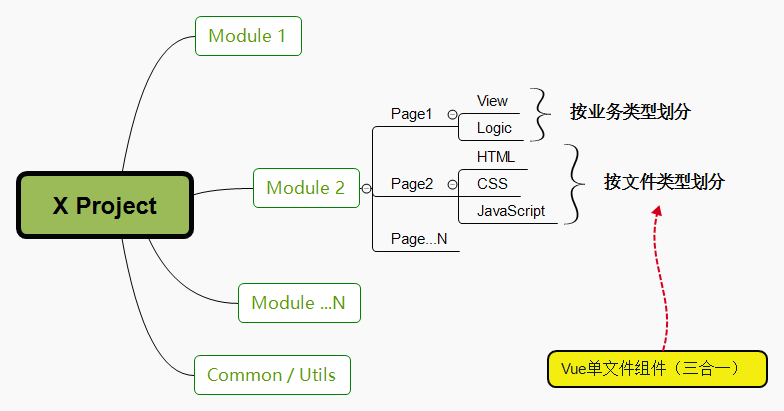
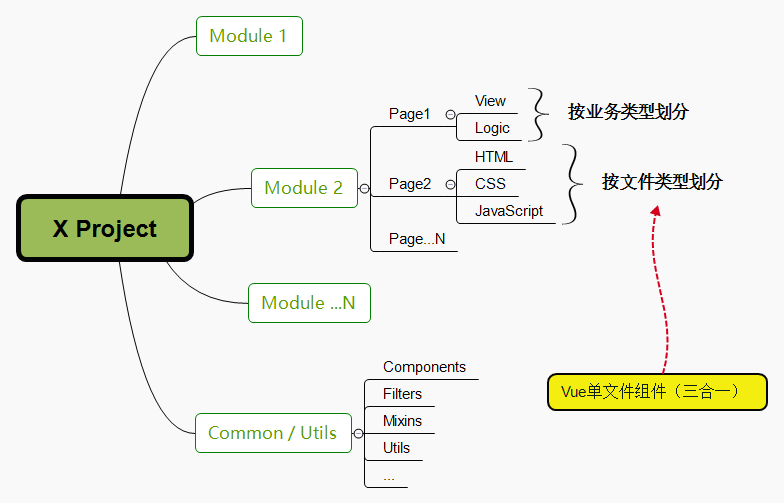
Update vue

diff --git a/slides/vue-those-things/index.html b/slides/vue-those-things/index.html
@@ -52,25 +52,9 @@
       <section class="section2">
         <section>
           <ul>
-            <li class="fragment">我认识的 Vue
-              <ul class="font-20">
-                <li>Vue
-                  <small>or</small> Angular
-                  <small>or</small> React</li>
-                <li>当你会Vue，我会认为...</li>
-              </ul>
-            </li>
-            <li class="fragment">Vue 项目结构&全家桶
-              <ul class="font-20">
-                <li>目录划分我之见</li>
-                <li>引入全家桶</li>
-              </ul>
-            </li>
-            <li class="fragment">迁移之路
-              <ul class="font-20">
-                <li>那些年我们写过的jQuery、AngularJs</li>
-              </ul>
-            </li>
+            <li class="fragment">我认识的 Vue </li>
+            <li class="fragment">Vue 项目结构&全家桶 </li>
+            <li class="fragment">迁移之路 </li>
             <li class="fragment">常见问题</li>
           </ul>
         </section>
@@ -207,20 +191,165 @@
           <h3>目录划分我之见</h3>
         </section>
         <section>
-          <h4>通用项目结构</h4>
+          <h4>通用项目层次</h4>
           <img src="images/project-structure.png" alt="">
         </section>
         <section>
-          <ul class="ul-inline col-2">
-            <li>
+          <h4>目录结构进化</h4>
+          <ul class="ul-inline col-3">
+            <li class="fragment">
               <img src="images/folder1.png" alt="">
             </li>
+            <li class="fragment" style="text-align:center;">
+              <h2>-></h2>
+            </li>
+            <li class="fragment">
+              <img src="images/folder2.jpg" alt="">
+            </li>
           </ul>
+        </section>
+        <section>
+          <h4>插件/组件库目录结构</h4>
+          <ul class="ul-inline">
+            <li class="pull-left" style="width: 30%;">
+              <img src="images/folder2-1.jpg" alt="">
+            </li>
+            <li class="pull-left" style="width: 70%;">
+              <ul class="no-list-style font-20">
+                <li class="fragment">1、具有业务无关性</li>
+                <li class="fragment">2、跨项目共享</li>
+                <li class="fragment">3、Maybe 开源？</li>
+                <li class="fragment">4、开发一个组件库：
+                  <pre><code class="hljs" data-trim>
+                      // index.js content
+                      import { COMPONENTS } from './components';
+
+                      const install = Vue => {
+                        if (install.installed) return;
+                        install.installed = true;
+                        COMPONENTS.forEach(comp => {
+                          Vue.component(comp.name, comp);
+                        });
+                      };
+
+                      // Auto install
+                      if (typeof window !== 'undefined' && window.Vue) {
+                        install(window.Vue);
+                      };
+
+                      export default {
+                        install,
+                        version: '0.0.1'
+                      };
+                      </code></pre>
+                </li>
+              </ul>
+            </li>
+          </ul>
+        </section>
+        <section>
+          <h4>常规项目目录结构</h4>
+          <ul class="ul-inline">
+            <li class="pull-left" style="width: 30%;">
+              <img src="images/folder2-2.jpg" alt="">
+            </li>
+            <li class="pull-left" style="width: 70%;">
+              <ul class="no-list-style font-20">
+                <li class="fragment">1、组件</li>
+                <li class="fragment">2、页面</li>
+                <li class="fragment">3、Filters & Utils</li>
+                <li class="fragment">4、动态加载页面/组件：
+                  <pre><code class="hljs" data-trim>
+                        import App from './app/App';
+
+                        // import Home from './home/Home';
+                        // import About from './about/About';
+                        // import Layout from './layout/Layout';
+                        // import NotFound from './notfound/NotFound';
+
+
+                        const Layout = () => import('./layout/Layout');
+                        const Home = () => import('./home/Home');
+                        const About = () => import('./about/About');
+                        const NotFound = () => import('./notfound/NotFound');
+
+                        export {
+                          App,
+                          Home,
+                          About,
+                          NotFound,
+                          Layout
+                        };
+
+                    </code></pre>
+                </li>
+              </ul>
+            </li>
+          </ul>
+        </section>
+        <section>
+          <h4>复杂项目目录，拆分模块</h4>
+          <ul class="ul-inline">
+            <li class="pull-left" style="width: 30%;">
+              <img src="images/folder2-3.jpg" alt="">
+            </li>
+            <li class="pull-left" style="width: 70%;">
+              <ul class="no-list-style font-20">
+                <li class="fragment">1、项目模块化</li>
+                <li class="fragment">2、每个模块类似一个简单项目</li>
+                <li class="fragment">3、统一导出</li>
+                <li class="fragment">
+                  <pre><code data-trim>
+                      // modules/product/pages/index.js
+                      const Page21 = () => import(/* webpackChunkName: "product" */'./page21/Page21');
+                      const Page22 = () => import(/* webpackChunkName: "product" */'./page22/Page22');
+                      const Layout = () => import(/* webpackChunkName: "product" */'./layout/Layout');
+
+                      export {
+                        Layout,
+                        Page21,
+                        Page22
+                      };
+
+                      // modules/product/index.js
+                      import * as pages from './pages';
+
+                      export default {
+                        path: 'product', component: pages.Layout, children: [
+                          { path: 'page21', component: pages.Page21 },
+                          { path: 'page22', component: pages.Page22 }
+                        ]
+                      };
+
+
+                      // modules/index.js
+                      import userRotue from './user';
+                      import productRoute from './product';
+
+                      export const moduleRoutes = [
+                        userRotue,
+                        productRoute
+                      ];
+                    </code></pre>
+                </li>
+              </ul>
+            </li>
+          </ul>
+        </section>
+        <section>
+          <h4>是不是还缺了点什么？</h4>
+          <h4 class="fragment">模块和页面是如何被启动的么？</h4>
+          <h4 class="fragment highlight-red">请听下回分解！</h4>
         </section>
       </section>
       <section class="section4-2">
         <section>
           <h3>引入全家桶</h3>
+          <img class="fragment" src="images/vue-all.png" alt="">
+        </section>
+        <section>
+          <h4>Vue-Router</h4>
+
         </section>
       </section>
 

diff --git a/app/css/common.css b/app/css/common.css
@@ -10,57 +10,74 @@
   font-size: 20px;
 }
 
+
 /* 对其方式、颜色与浮动 */
+
 .reveal .text-center {
   text-align: center;
 }
+
 .reveal .text-right {
   text-align: right;
 }
+
 .reveal .text-left {
   text-align: left;
 }
+
 .reveal .pull-left {
   float: left;
 }
+
 .reveal .pull-right {
   float: right;
 }
+
 .reveal .text-danger {
   color: #c12e2a;
 }
+
 .reveal .text-primary {
   color: #337ab7;
 }
+
 .reveal .text-gray {
   color: #ccc;
 }
 
+
 /* UL样式 */
-.reveal .ul-inline > li {
+
+.reveal .ul-inline>li {
   list-style: none;
   float: left;
 }
+
 .reveal .no-list-style {
   list-style: none;
 }
-.reveal .no-list-style > li {
+
+.reveal .no-list-style>li {
   list-style: none;
 }
 
-.reveal .col-2{
+.reveal .col-2>li {
   width: 50%;
 }
-.reveal .col-3{
+
+.reveal .col-3>li {
   width: 33.33333%;
 }
 
+
 /* 标签容器样式 */
+
 .reveal .tag-container {
   border: 1px solid #ccc;
   margin-top: 10px;
   padding: 10px;
 }
+
 .reveal .tag-container span {
   margin-right: 10px;
   margin-bottom: 10px;

diff --git a/slides/vue-those-things/index.css b/slides/vue-those-things/index.css
@@ -7,6 +7,10 @@
   font-family: 'Microsoft YaHei';
 }
 
+ul {
+  margin-left: 0;
+}
+
 .section1 .vue-logo {
   transform: rotateX(180deg);
   border: none;
@@ -14,7 +18,8 @@
   box-shadow: none;
   width: 40%;
 }
-.section3 .ul-inline > li,
-.section3-1 .ul-inline > li {
+
+.section3 .ul-inline>li,
+.section3-1 .ul-inline>li {
   width: 33.33333%;
 }
